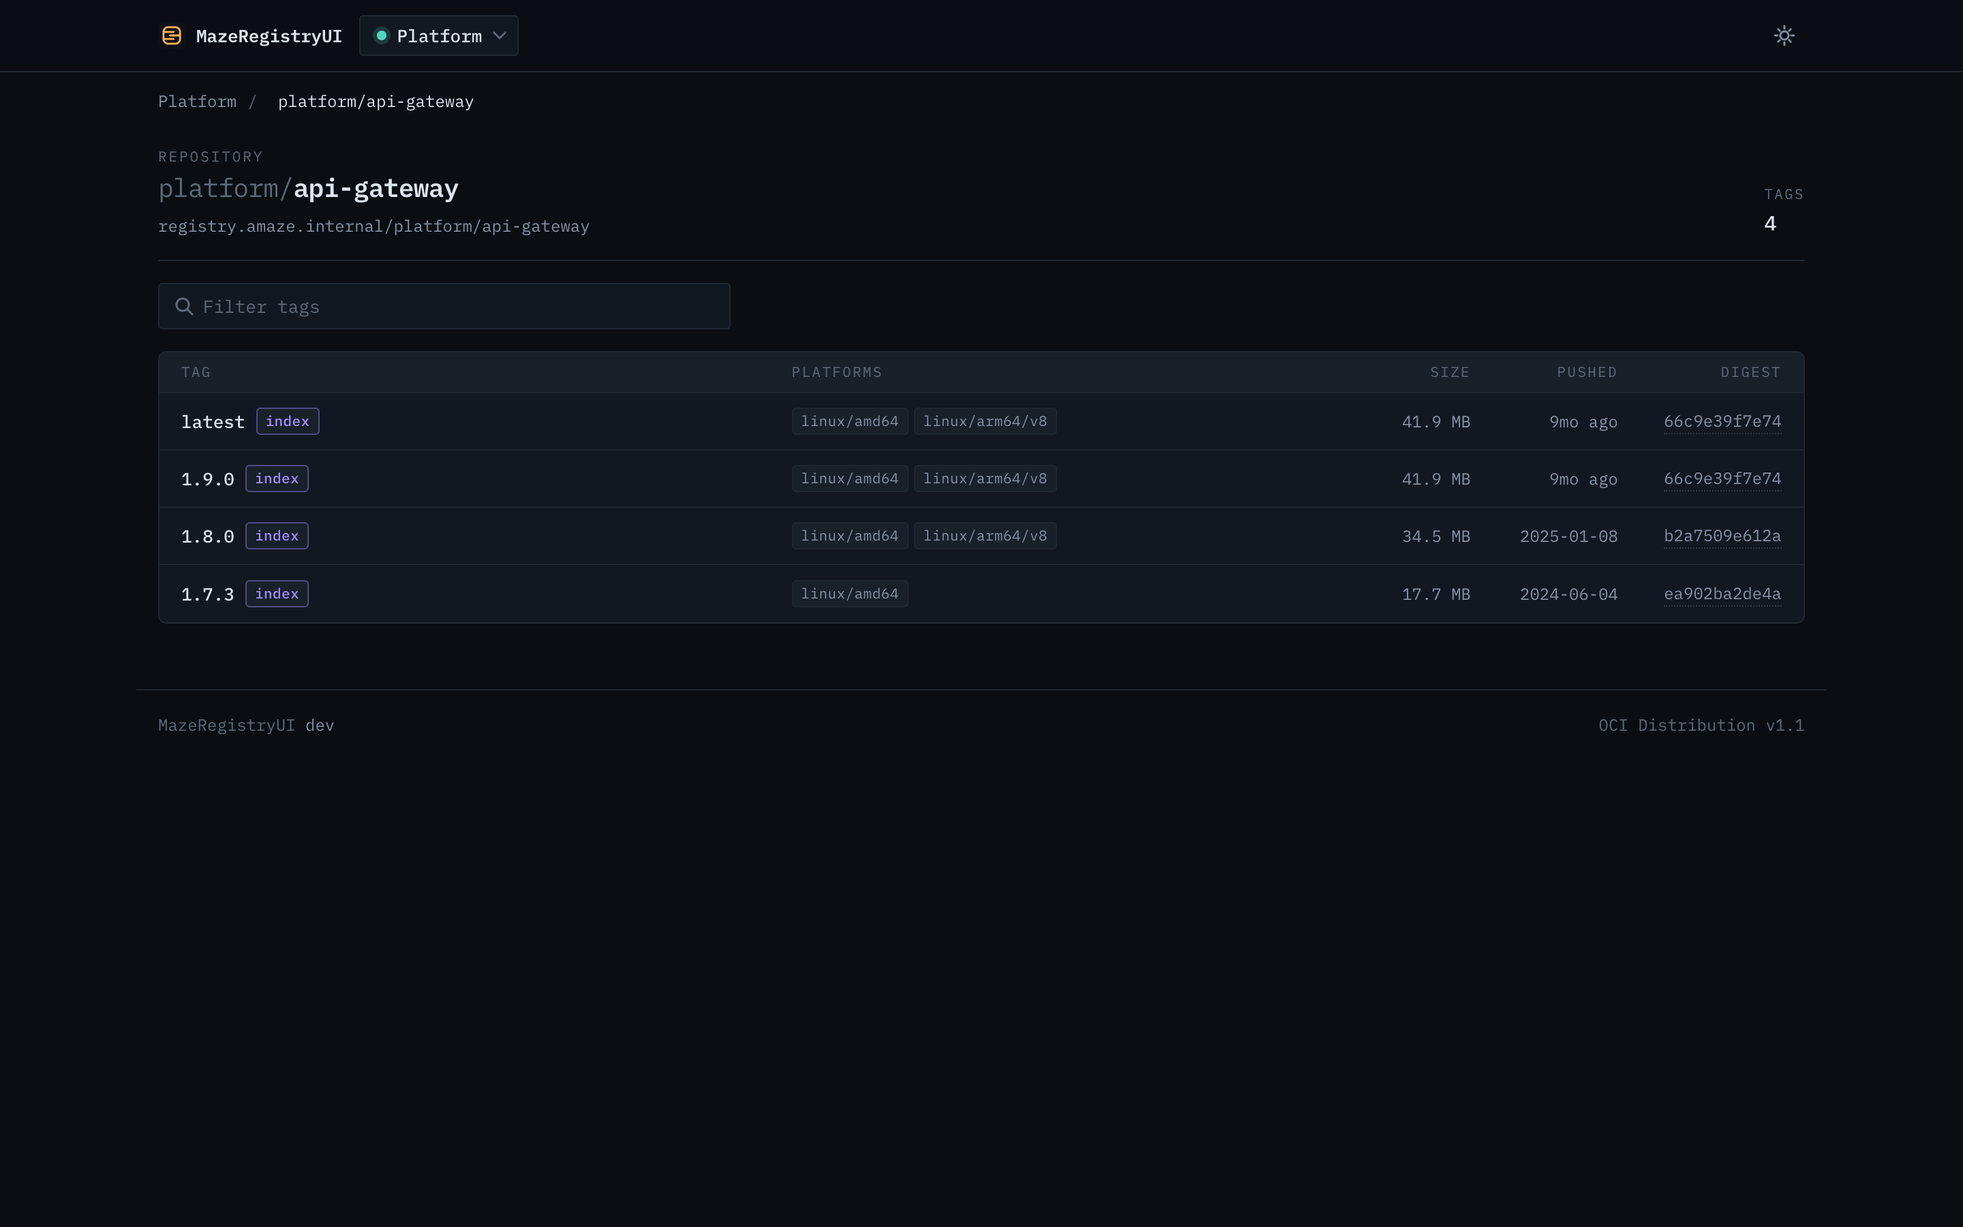
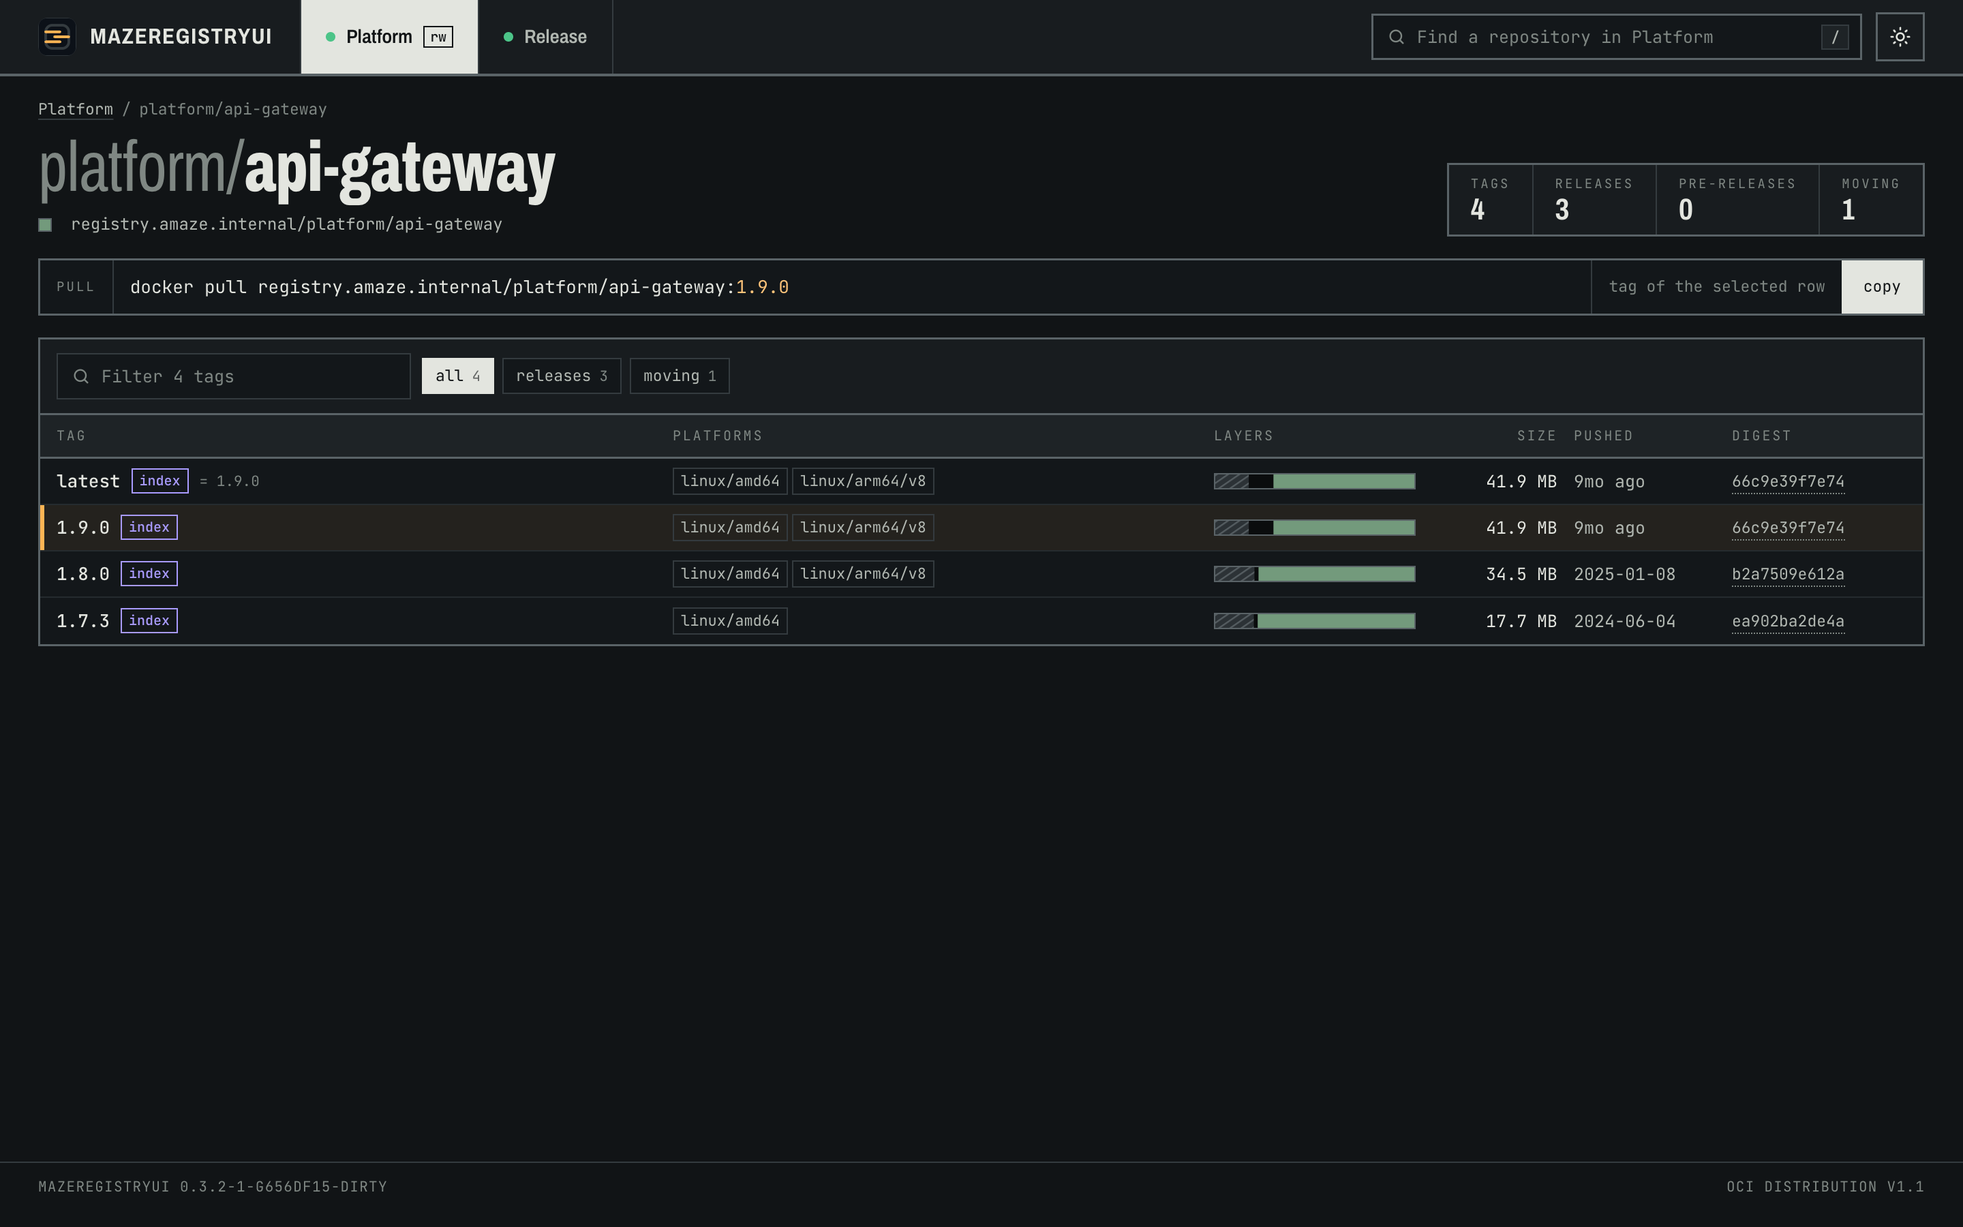
docs: document the redesign and retake the screenshots
Architecture notes for the grouped catalog, the row fragment, SVG strips
and namespace colours; catalog_page_size now also drives the grouped
overview; fonts in the notices; README features and screenshots retaken
from the demo registries. The picker screenshot goes: on a desktop the
registries are now header tabs, visible in every other screenshot.

diff --git a/CLAUDE.md b/CLAUDE.md
@@ -7,8 +7,8 @@ The deep reference is `docs/ARCHITECTURE.md` (request path, caches, templates, s
 ## Stack
 
 - **Go 1.25, standard library first.** The only third-party module is `gopkg.in/yaml.v3`. Routing is `net/http`'s `ServeMux` with Go 1.22+ patterns — no router, no framework, no ORM, no DI. A new dependency needs a good reason and a GPLv3-compatible licence (`THIRD-PARTY-NOTICES.md`).
-- **Server-rendered HTML** with `html/template`, **HTMX** for the few interactive parts (lazy tag rows, catalog search, picker health dots). The page must be useful before any script runs: HTMX is progressive enhancement, never load-bearing.
-- **No Node toolchain.** CSS, fonts (IBM Plex Mono), `htmx.min.js`, `theme.js`, `app.js` and icons are committed under `web/static/` and embedded with `embed.FS`. Nothing is fetched from a CDN — that is what makes the strict CSP and air-gapped installs possible. Don't add a bundler, a CSS framework or a webfont from a third-party origin.
+- **Server-rendered HTML** with `html/template`, **HTMX** for the few interactive parts (lazy catalog and tag rows, collapsed namespace groups, catalog search, health dots). The page must be useful before any script runs: HTMX is progressive enhancement, never load-bearing.
+- **No Node toolchain.** CSS, fonts (Archivo and JetBrains Mono, variable woff2), `htmx.min.js`, `theme.js`, `app.js` and icons are committed under `web/static/` and embedded with `embed.FS`. Nothing is fetched from a CDN — that is what makes the strict CSP and air-gapped installs possible. Don't add a bundler, a CSS framework or a webfont from a third-party origin.
 - **Deployment**: one static binary (`CGO_ENABLED=0`) in `gcr.io/distroless/static-debian12:nonroot` (uid 65532). No shell in the image, so no `HEALTHCHECK` — probes come from outside on `/healthz`. One YAML config file, credentials via `${VAR}` / `*_env`.
 
 ## Repository layout
@@ -33,7 +33,7 @@ The same rules, for humans, are in `CONTRIBUTING.md`.
 2. **Tracked issues close themselves**: reference the issue from every commit that implements it, and make the LAST one `Closes #<n>` so the push closes it.
 3. **Issue first, and nothing personal in it**: open the issue before writing the code that answers it (with `file:line` evidence), and reference related ones (`Refs #<n>`). The repo is public: issues, commits, PR bodies, tests, fixtures, config examples and screenshots carry nothing from a real installation — no real registry hostnames, domains, repository names, IPs, usernames or tokens. When an example helps, invent a neutral one (`registry.example.com`, `team/api`, `ci-reader`).
 4. **Take what you work on**: when work on an issue or a pull request starts, assign it to the person you are working for (`gh issue edit <n> --add-assignee @me`, `gh pr edit <n> --add-assignee @me`) — unless it is already assigned to someone else: then ask before starting.
-5. **Screenshots come from the demo, never from a real registry**: `docs/images/` (catalog, repository, image, picker) are taken from `docs/demo/` — `sh docs/demo/seed.sh` starts the two invented registries, `bin/mazeregistryui -config docs/demo/config.yaml` serves them on `127.0.0.1:18080` — at a 1440×900 viewport, device scale factor 2, dark theme. A change that shows on a screenshot retakes it in the same change. The repository and tag names in `seed.sh` are the contract with the screenshots: renaming or dropping one means retaking. The UI caches tag rows, so restart it after re-seeding.
+5. **Screenshots come from the demo, never from a real registry**: `docs/images/` (catalog, repository, image) are taken from `docs/demo/` — `sh docs/demo/seed.sh` starts the two invented registries, `bin/mazeregistryui -config docs/demo/config.yaml` serves them on `127.0.0.1:18080` — at a 1440×900 viewport, device scale factor 2, dark theme. A change that shows on a screenshot retakes it in the same change. The repository and tag names in `seed.sh` are the contract with the screenshots: renaming or dropping one means retaking. The UI caches tag rows, so restart it after re-seeding.
 6. **SPDX header on every new first-party source file**: `// SPDX-License-Identifier: GPL-3.0-or-later` on the first line, a blank line, then the package comment (so it doesn't become documentation). Vendored files keep their own headers and get a `THIRD-PARTY-NOTICES.md` entry.
 
 ## Local dev quick reference
@@ -71,6 +71,10 @@ The same rules, for humans, are in `CONTRIBUTING.md`.
 - **Tag ordering**: the registry's own order sets the pagination cursor BEFORE the natural display sort (`latest` first) rearranges the page — don't swap those steps.
 - **Index sizes count distinct blobs once**; attestation children (`unknown/unknown`) are listed but excluded from platforms; a missing config blob is not fatal. Product decisions, not accidents.
 - **A stale catalog beats an error page**: a failed refresh serves the previous list.
+- **The look is the "survey sheet"** (`app.css` header): square corners, ink rules, Archivo for headings, JetBrains Mono for every value, the logo amber as the only accent. Colours are tokens with one name and a light and a dark value (`[data-theme]`); components use only the names. Don't add a colour outside the token block.
+- **Layer strips are SVG, not CSS widths**: rows arrive as HTMX fragments, which cannot carry the page's style nonce. Anything proportional inside a fragment follows the same rule; on a full page the nonced `<style>` (`layerCSS`) is fine.
+- **Namespace colours come from `catalogCache.Tint`** (alphabetical slots, hash fallback) — never compute them anywhere else, or the catalog, the repository page and the image page will disagree.
+- **Lazy rows inside a group set `hx-target="this"`**: htmx 2 inherits attributes, and the group's own `hx-target` would otherwise apply to them.
 
 ## When in doubt
 

diff --git a/docs/ARCHITECTURE.md b/docs/ARCHITECTURE.md
@@ -58,15 +58,15 @@ Fragment endpoints live under `/x/` and return partials rather than pages:
 | Route | Purpose |
 | --- | --- |
 | `GET /{$}` | Redirect to the default registry. |
-| `GET /r/{rid}` | Catalog page. |
+| `GET /r/{rid}` | Catalog page: grouped by namespace, or a flat list with `?view=flat`, `?ns=` or `?q=`. |
 | `GET /r/{rid}/repo/{repo...}` | Repository (tag list). |
 | `GET /r/{rid}/image/{repo...}?ref=` | Image detail. |
 | `POST /r/{rid}/delete` | Manifest deletion. |
-| `GET /x/catalog/{rid}` | Catalog rows — search and "load more". |
-| `GET /x/repocount/{rid}/{repo...}` | Tag count badge on a catalog row. |
+| `GET /x/catalog/{rid}` | Catalog rows — the search box (`part=body`: the whole body, groups or list), "load more", and the first opening of a collapsed group (`ns=`). |
+| `GET /x/reporow/{rid}/{repo...}` | One resolved catalog row: tag count, newest tag, its size, platforms, age and layer strip. |
 | `GET /x/tags/{rid}/{repo...}` | The next page of tag rows. |
 | `GET /x/tag/{rid}/{repo...}` | One resolved tag row. |
-| `GET /x/health/{rid}` | Status dot in the registry picker. |
+| `GET /x/health/{rid}` | Status dot of a registry (header tabs, phone picker, page head). |
 | `POST /x/theme` | Set the theme cookie, redirect back. |
 | `GET /healthz` | Liveness/readiness JSON. |
 | `GET /static/` | Embedded assets. |
@@ -167,7 +167,7 @@ requests into one — and token endpoints are exactly what registries rate-limit
 ### The health cache
 
 `healthCache` in `server.go` remembers each registry's reachability for 30
-seconds so opening the picker does not re-probe every endpoint. The probes are
+seconds so every page load does not re-probe every endpoint. The probes are
 also staggered client-side (`HealthDelay`, 120 ms apart) so they do not all
 fire in the same millisecond.
 
@@ -203,6 +203,40 @@ element, so there is no lock around the results, and a child that fails to
 resolve is left `nil` rather than failing the whole index — one broken platform
 should not hide the other five.
 
+### The catalog: groups, rows and strips
+
+The catalog is grouped by namespace (`buildCatalog`). The grouping costs
+nothing — it is computed from the in-memory index — and it decides how much
+of a large registry is drawn at all:
+
+- **Up to `catalog_page_size` repositories**, every group is rendered open
+  with its rows.
+- **Beyond that**, groups render closed with only their counts, and a
+  group's rows are fetched (`/x/catalog/{rid}?ns=`) the first time it is
+  opened (`hx-trigger="toggle once"`). A registry with thousands of
+  repositories draws a page of headers, not thousands of rows.
+- **A single namespace, a filter, `?ns=` or `?view=flat`** give the plain
+  paginated list instead.
+
+Each row then resolves lazily through `/x/reporow`, under the same
+per-registry semaphore as tag rows: the tag list (for the count), the newest
+tag (`pickLatest` — a version beats `latest`), its `TagSummary`, and the
+image by digest for the layer strip. The summary has just cached that
+manifest under its digest, so the last call is a cache hit.
+
+The **layer strip** (`stripFromLayers`) splits an image into its first
+layer (usually the base image's root filesystem, hatched), its largest
+remaining layer (in the namespace's colour) and the rest (dark). It is drawn
+as inline SVG geometry, not CSS widths: rows arrive as HTMX fragments, which
+cannot carry the page's style nonce, and the CSP forbids style attributes.
+SVG `x`/`width` attributes are neither.
+
+**Namespace colours** (`catalogCache.Tint`) are handed out in alphabetical
+order from an eight-slot palette once a registry's catalog has been listed,
+so up to eight namespaces never share a colour; before that, a hash of the
+name stands in. A new namespace can shift the colours after it — the price
+of not colliding.
+
 ---
 
 ## Templates
@@ -213,16 +247,16 @@ should not hide the other five.
 web/
   embed.go              # embed.FS for templates/ and static/
   templates/
-    base.html           # the shell: header, picker, breadcrumbs, footer
+    base.html           # the shell: header (registry tabs, phone picker), breadcrumbs, footer
     catalog.html        # each page defines its own "content" block
     repository.html
     image.html
     error.html
     partials/
-      catalog_rows.html # "catalog_rows", "repo_count"
+      catalog_rows.html # "catalog_body", "catalog_rows", "repo_rows", "repo_row"
       tag_rows.html     # "tag_rows", "tag_row"
-      misc.html         # "banner", "health_dot"
-  static/               # app.css, app.js, theme.js, htmx.min.js, icon.svg, fonts/
+      misc.html         # "banner", "health_dot", "strip"
+  static/               # app.css, app.js, theme.js, htmx.min.js, icons, fonts/ (Archivo, JetBrains Mono)
 ```
 
 **One template set per page.** Every page defines a block named `content`, so
@@ -251,7 +285,13 @@ changed — there is no cache-invalidation problem to manage.
 
 **Client-side JavaScript** is three small files: `htmx.min.js`, `theme.js` (a
 pre-paint script that reads the theme cookie so there is no flash of the wrong
-theme) and `app.js` (copy buttons, layer bar hover, delete confirmation).
+theme) and `app.js` (copy buttons, the tag filter and kind chips, row
+selection and the keyboard — `/`, `j`/`k`, `enter`, `c` — the pull bar that
+follows the selected tag, pull by tag or digest, the "= 1.9.0" marker on
+moving tags once their digests are known, layer bar hover, delete
+confirmation). htmx's own indicator stylesheet is switched off with the
+`htmx-config` meta tag: the CSP would block it, and `app.css` styles the
+indicator anyway.
 Nothing is fetched from a CDN, which is what lets the whole thing run
 air-gapped and what makes the strict CSP below possible.
 

diff --git a/README.md b/README.md
@@ -23,36 +23,39 @@ rejected on purpose.
 ## Screenshots
 
 <p align="center">
-  <img src="docs/images/catalog.png" alt="Catalog view listing repositories with an instant search box and tag counts" width="900">
+  <img src="docs/images/catalog.png" alt="Catalog grouped by namespace: each repository with its newest tag, a layer strip, size, tag count, platforms and last push" width="900">
 </p>
 
 <table>
   <tr>
-    <td width="50%"><img src="docs/images/repository.png" alt="Repository view with lazily loaded tag rows showing size, platforms and age"></td>
-    <td width="50%"><img src="docs/images/image.png" alt="Image detail with the proportional layer composition bar, labels and raw manifest"></td>
+    <td width="50%"><img src="docs/images/repository.png" alt="Repository view: tag rows with platforms, layer strip, size, age and digest, filter chips by tag kind and a pull bar that follows the selected row"></td>
+    <td width="50%"><img src="docs/images/image.png" alt="Image detail: proportional layer bar with the largest layer highlighted, a layer table with each layer's share, configuration and environment"></td>
   </tr>
   <tr>
-    <td align="center"><em>Repository — tags load as they scroll into view</em></td>
+    <td align="center"><em>Repository — tags resolve as they scroll into view; the pull bar follows the selected row</em></td>
     <td align="center"><em>Image — layer composition, config and raw manifest</em></td>
   </tr>
 </table>
 
-<p align="center">
-  <img src="docs/images/picker.png" alt="The header picker open, listing two configured registries with their hostnames and reachability" width="900">
-  <br><em>Every configured registry in one place, with a live reachability check</em>
-</p>
-
 ## Features
 
-- Multiple registries in one instance, switched from a picker in the header,
-  each with its own credentials, timeouts and permissions.
-- Catalog with instant in-memory search; the full repository list is indexed
-  server-side, so filtering does not re-walk the registry.
+- Multiple registries in one instance, one tab each in the header (a picker on
+  a phone), each with its own credentials, timeouts and permissions.
+- Catalog grouped by namespace, built for registries with hundreds of
+  repositories: each row shows the newest tag, its size, platforms, age and a
+  layer strip (first layer, largest layer, the rest). Small registries open
+  every group; large ones load a group's rows the first time it is opened.
+  A flat view and namespace chips are one click away.
+- Instant in-memory search; the full repository list is indexed server-side,
+  so filtering does not re-walk the registry.
+- Keyboard first: `/` to filter, `j`/`k` to move, `enter` to open, `c` to copy
+  the pull command of the selected row.
 - Tag rows that resolve lazily as they scroll into view, bounded by a
-  per-registry concurrency limit.
-- Image detail: proportional layer composition bar with the three largest
-  layers highlighted, the build command behind each layer, labels, environment,
-  config, annotations and the raw manifest.
+  per-registry concurrency limit, filterable by kind (releases, pre-releases,
+  moving tags such as `latest`, which show the version they point at).
+- Image detail: proportional layer bar with the largest layer highlighted, a
+  layer table with each layer's share and build command, labels, environment,
+  config, annotations and the raw manifest; pull by tag or by digest.
 - Multi-architecture indexes: every child manifest is listed with its platform,
   and shared layers are counted once in the total size.
 - Copyable `docker pull` command, with an overridable pull hostname.
@@ -62,8 +65,8 @@ rejected on purpose.
   Distribution).
 - Dark and light themes, remembered per visitor.
 - `/healthz` endpoint, structured logs (text or JSON), graceful shutdown.
-- No CDN, no Node build step: templates, CSS, IBM Plex Mono and HTMX are
-  embedded in the binary, so it runs air-gapped.
+- No CDN, no Node build step: templates, CSS, the Archivo and JetBrains Mono
+  fonts and HTMX are embedded in the binary, so it runs air-gapped.
 
 ## Quickstart
 
@@ -182,6 +185,7 @@ Deploying this as a network service does not by itself oblige you to publish
 changes; the GPL is triggered by distribution, not by use. If you distribute a
 modified build, the modified source must go with it.
 
-Bundled third-party components — htmx (0BSD), IBM Plex Mono (OFL-1.1) and
+Bundled third-party components — htmx (0BSD), Archivo and JetBrains Mono
+(OFL-1.1) and
 gopkg.in/yaml.v3 (MIT and Apache-2.0) — keep their own licences: see
 [THIRD-PARTY-NOTICES.md](THIRD-PARTY-NOTICES.md).

diff --git a/THIRD-PARTY-NOTICES.md b/THIRD-PARTY-NOTICES.md
@@ -15,15 +15,20 @@ Copyright © Big Sky Software
 > Permission to use, copy, modify, and/or distribute this software for any
 > purpose with or without fee is hereby granted.
 
-### IBM Plex Mono
-`web/static/fonts/plex-mono-{400,500,600}.woff2`
-Copyright © 2017 IBM Corp. with Reserved Font Name "Plex"
-**SIL Open Font License 1.1 (OFL-1.1)** — https://github.com/IBM/plex/blob/master/LICENSE.txt
+### Archivo
+`web/static/fonts/archivo-var.woff2`
+Copyright © 2016 The Archivo Project Authors (https://github.com/Omnibus-Type/Archivo)
+**SIL Open Font License 1.1 (OFL-1.1)** — https://github.com/Omnibus-Type/Archivo/blob/master/OFL.txt
 
-The subsetted `woff2` files here are the Latin ranges as served by Google
-Fonts. Under the OFL these files may be redistributed and embedded, including
-in this binary; they may not be sold on their own, and any derivative font
-must not use the reserved name "Plex".
+### JetBrains Mono
+`web/static/fonts/jetbrains-mono-var.woff2`
+Copyright © 2020 The JetBrains Mono Project Authors (https://github.com/JetBrains/JetBrainsMono)
+**SIL Open Font License 1.1 (OFL-1.1)** — https://github.com/JetBrains/JetBrainsMono/blob/master/OFL.txt
+
+Both files are the variable fonts' Latin subset as served by Google Fonts
+(Archivo with its width and weight axes, JetBrains Mono with its weight axis).
+Under the OFL they may be redistributed and embedded, including in this
+binary; they may not be sold on their own.
 
 ## Linked into the binary at build time
 

diff --git a/docs/CONFIGURATION.md b/docs/CONFIGURATION.md
@@ -76,7 +76,7 @@ Presentation settings. Nothing here affects what the server is allowed to do.
 | --- | --- | --- | --- |
 | `title` | string | `MazeRegistryUI` | Name in the header and in `<title>`. Useful to distinguish staging from production at a glance. |
 | `theme` | string | `auto` | Initial theme: `auto`, `dark` or `light`. `auto` follows the visitor's system preference. A visitor's own choice is stored in the `mrui_theme` cookie and always wins. |
-| `catalog_page_size` | int | `50` | Repositories rendered per catalog page, and the page size used when walking the registry catalog. |
+| `catalog_page_size` | int | `50` | Repositories rendered per page of a flat catalog list, and the page size used when walking the registry catalog. It also decides the grouped overview: up to this many repositories every namespace group opens with its rows; beyond it, groups start closed and load their rows when opened. |
 | `tag_page_size` | int | `50` | Tags requested per page on a repository view. |
 | `default_registry` | string | first entry's `id` | The registry selected on first visit and by `/`. Must match a configured `id`. |
 | `show_pull_command` | bool | `false` | Render a copyable `docker pull …` line on the image view. |
